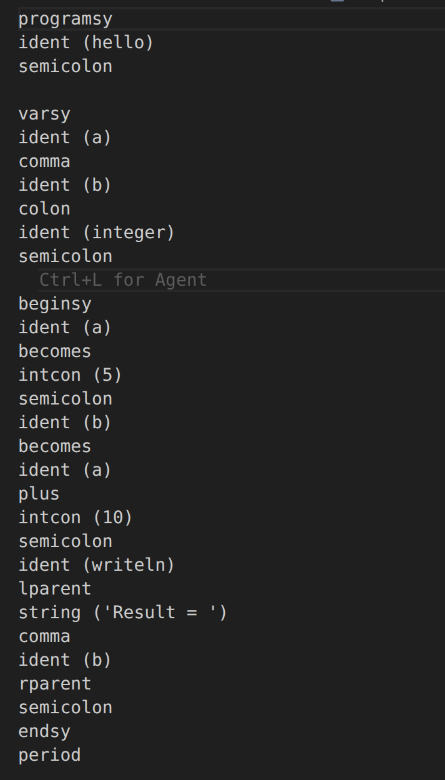
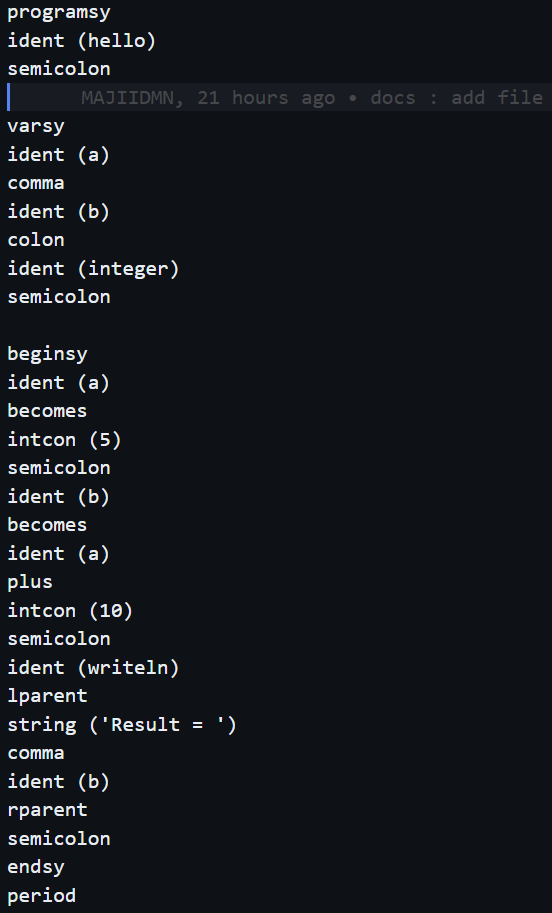
chore: finalize laporan

diff --git a/doc/Laporan-1-DCL.tex b/doc/Laporan-1-DCL.tex
@@ -15,6 +15,7 @@
     bottom=2.5cm
 }
 \onehalfspacing
+\raggedbottom
 
 \usepackage{graphicx}
 \usepackage{float}
@@ -57,6 +58,7 @@
 \usepackage{booktabs}
 \usepackage{tabularx}
 \usepackage{longtable}
+\usepackage{etoolbox}
 
 \usepackage{hyperref}
 \hypersetup{
@@ -87,7 +89,7 @@
 \title{
     \vspace{-1.5cm}
     {\Large\textsc{IF2224 Formal Language and Automata Theory}}\\[0.35cm]
-    {\LARGE\textbf{Arion Interpreter --- Milestone 1: Lexical Analysis}}\\[0.3cm]
+    {\LARGE\textbf{Arion Interpreter - Milestone 1: Lexical Analysis}}\\[0.3cm]
     \vspace{-0.3cm}
 }
 \author{}
@@ -109,10 +111,10 @@
 
 \vspace{1cm}
 \begin{center}
-    \textbf{Made Branenda Jordhy} --- 13524026 \\[0.15cm]
-    \textbf{Muhammad Nur Majiid} --- 13524028 \\[0.15cm]
-    \textbf{Jason Edward Salim} --- 13524034 \\[0.15cm]
-    \textbf{Athilla Zaidan Zidna Fann} --- 13524068
+    \textbf{Made Branenda Jordhy} - 13524026 \\[0.15cm]
+    \textbf{Muhammad Nur Majiid} - 13524028 \\[0.15cm]
+    \textbf{Jason Edward Salim} - 13524034 \\[0.15cm]
+    \textbf{Athilla Zaidan Zidna Fann} - 13524068
 \end{center}
 
 \vspace{3cm}
@@ -681,23 +683,15 @@ beserta pola atau simbol yang merepresentasikannya, dikelompokkan berdasarkan ka
 
 \renewcommand{\arraystretch}{1.0}
 \footnotesize
-\begin{longtable}{l l p{8.5cm}}
+\begin{table}[H]
+\centering
 \caption{Daftar token bahasa Arion.}
-\label{tab:tokens}\\
+\label{tab:tokens}
+\resizebox{\textwidth}{!}{%
+\begin{tabular}{l l p{8.5cm}}
 \toprule
 \textbf{Category} & \textbf{Token} & \textbf{Pattern / Example} \\
 \midrule
-\endfirsthead
-\multicolumn{3}{l}{\small\itshape (continued)} \\[2pt]
-\toprule
-\textbf{Category} & \textbf{Token} & \textbf{Pattern / Example} \\
-\midrule
-\endhead
-\midrule
-\multicolumn{3}{r}{\small\itshape Continued on next page\ldots} \\
-\endfoot
-\bottomrule
-\endlastfoot
 \multicolumn{3}{l}{\textit{Literals}} \\[2pt]
  & \texttt{intcon}  & Integer constant: \texttt{1}, \texttt{42}, \texttt{100} \\
  & \texttt{realcon} & Real constant: \texttt{3.14}, \texttt{0.5} \\
@@ -766,7 +760,10 @@ beserta pola atau simbol yang merepresentasikannya, dikelompokkan berdasarkan ka
  & \texttt{ident}   & Identifier: \texttt{x}, \texttt{myVar}, \texttt{h4g} \\
  & \texttt{comment} & \texttt{\{...\}} or \texttt{(*...*)} (discarded) \\
  & \texttt{unknown} & Unrecognized token (lexical error) \\
-\end{longtable}
+\bottomrule
+\end{tabular}%
+}
+\end{table}
 \renewcommand{\arraystretch}{1.15}
 
 % -----------------------------------------------------------------------

diff --git a/README.md b/README.md
@@ -39,9 +39,9 @@ Athilla Zaidan Zidna Fann<br>
 
 ## Instructions
 
-### Instalasi
+### Installation
 
-Pastikan `g++` dan `make` sudah terinstal.
+Make sure `g++` and `make` are installed on your machine.
 
 ### Build
 
@@ -49,35 +49,35 @@ Pastikan `g++` dan `make` sudah terinstal.
 make
 ```
 
-atau secara eksplisit:
+or explicitly:
 
 ```bash
 make build
 ```
 
-Hasil kompilasi tersimpan di `bin/lexer` (Linux) atau `bin/lexer.exe` (Windows).
+Compilation is saved in `bin/lexer` (Linux) or `bin/lexer.exe` (Windows).
 
 ---
 
-### Menjalankan Program
+### How to Run
 
 ```bash
 make run
 ```
 
-### Membersihkan Build
+### Remove Old Compilation
 
 ```bash
 make clean
 ```
 
-## Task Distribution
+## Task Contribution
 
 ### Milestone 1
 
-| NIM      | Name                      | Contribution | Percentage |
-| -------- | ------------------------- | ------------ | ---------- |
-| 13524026 | Made Branenda Jordhy      |              | 25%        |
-| 13524028 | Muhammad Nur Majiid       |              | 25%        |
-| 13524034 | Jason Edward Salim        |              | 25%        |
-| 13524068 | Athilla Zaidan Zidna Fann |              | 25%        |
+| NIM      | Name                      | Percentage |
+| -------- | ------------------------- | ---------- |
+| 13524026 | Made Branenda Jordhy      | 25%        |
+| 13524028 | Muhammad Nur Majiid       | 25%        |
+| 13524034 | Jason Edward Salim        | 25%        |
+| 13524068 | Athilla Zaidan Zidna Fann | 25%        |